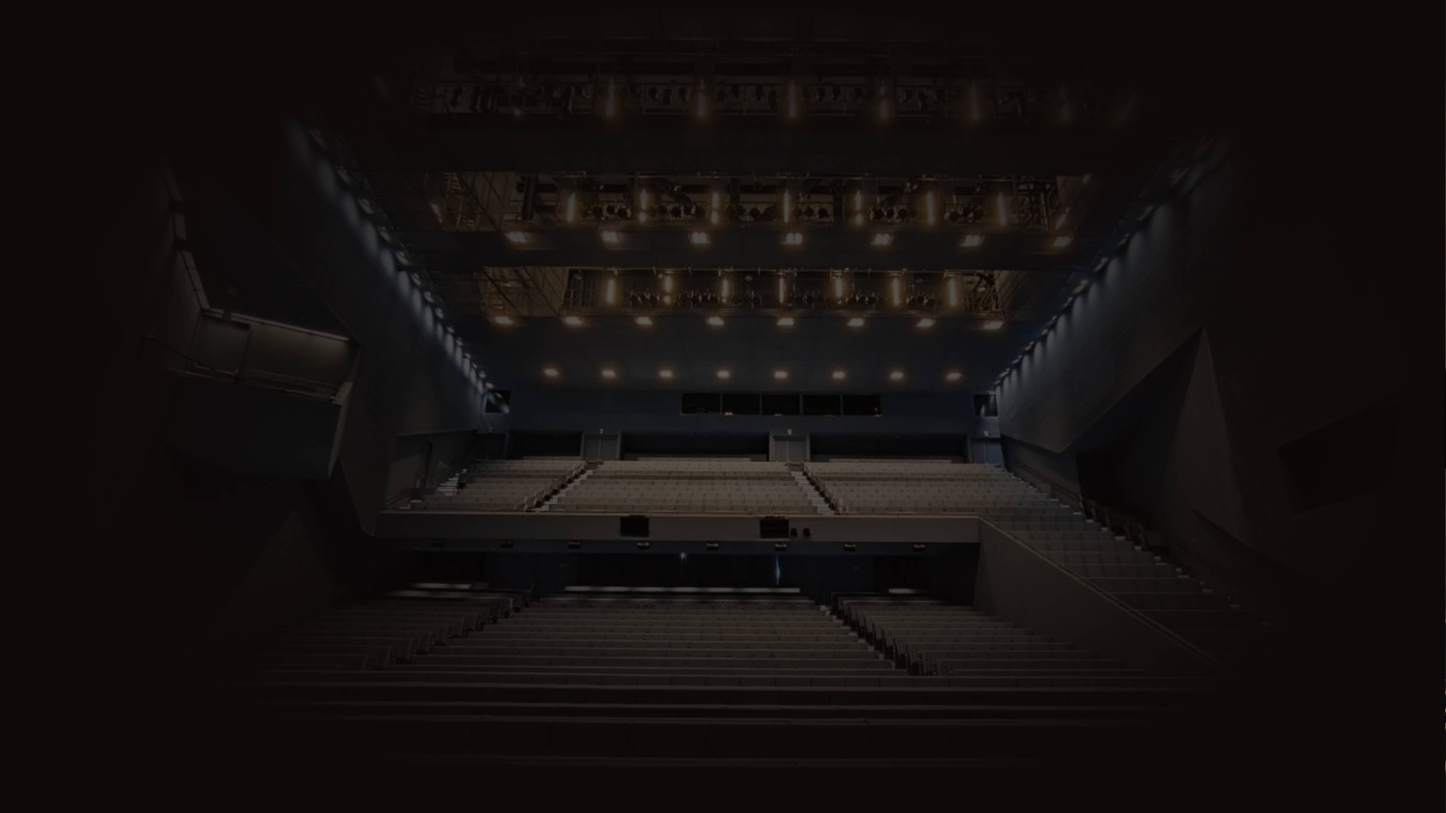
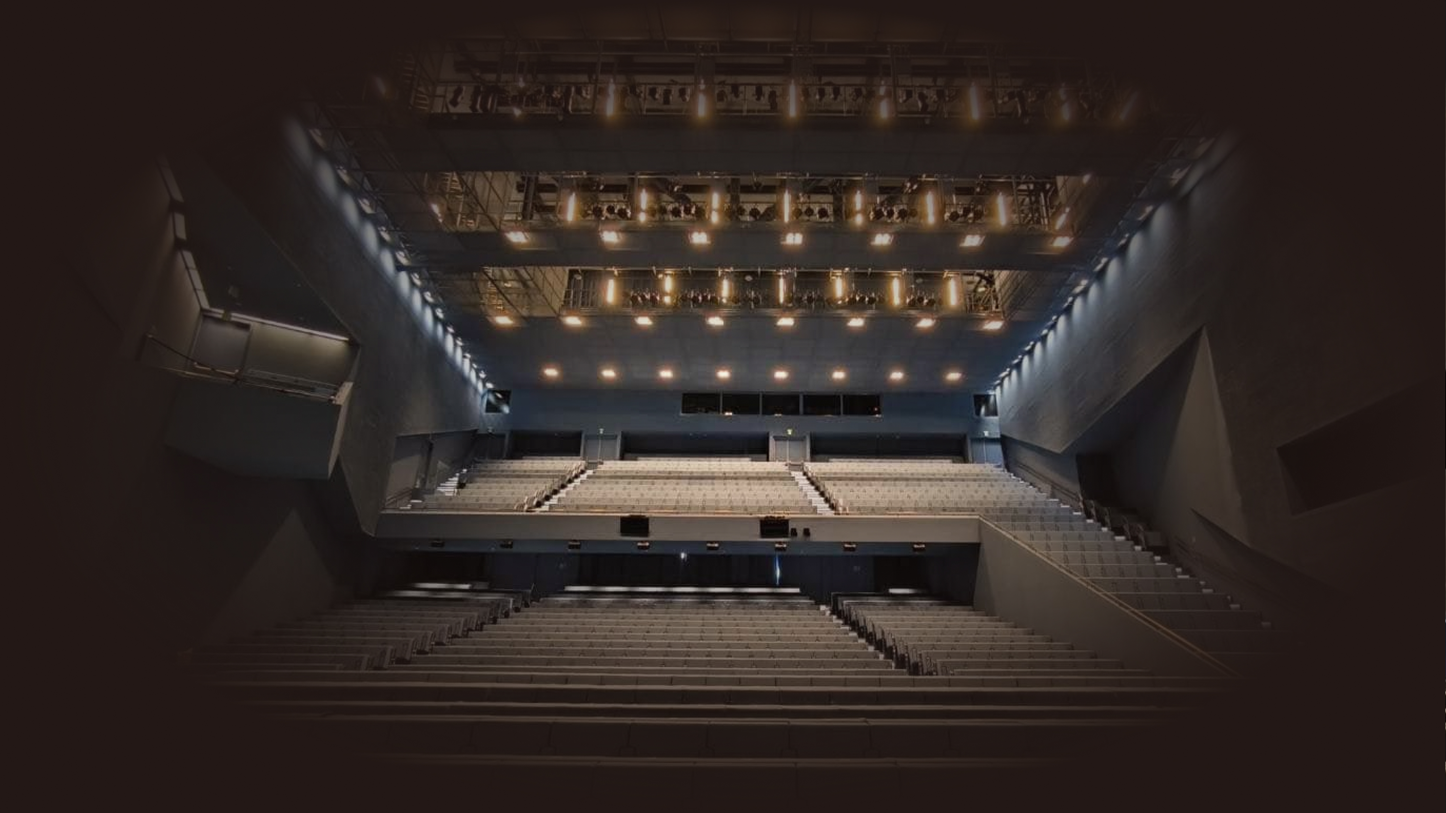
kv輪播新增

diff --git a/index.html b/index.html
@@ -41,13 +41,34 @@
 			<div class="home_kv_logo">
 				<img src="img/logo_main.svg" alt="">
 			</div>
-			<!-- 電腦版圖片 -->
-			<div class="photo pc imgLiquidFill">
-				<img src="img/home_kv-bg.jpg" alt="">
-			</div>
-			<!-- 手機版圖片 -->
-			<div class="photo mob ">
-				<img src="img/home_kv-bg.jpg" alt="">
+			<div class="photo">
+				<div class="swiper swiper-container-kv">
+					<div class="swiper-wrapper">
+						<!-- Slides -->
+						<div class="swiper-slide">
+							<!-- 電腦版圖片 -->
+							<img class="pc" src="img/home_kv-bg.jpg" alt="">
+
+							<!-- 手機版圖片 -->
+							<img class="mob" src="img/home_kv-bg_mob.jpg" alt="">
+						</div>
+						<div class="swiper-slide">
+							<!-- 電腦版圖片 -->
+							<img class="pc" src="img/home_kv-bg.jpg" alt="">
+							
+							<!-- 手機版圖片 -->
+							<img class="mob" src="img/home_kv-bg_mob.jpg" alt="">
+						</div>
+						<div class="swiper-slide">
+							<!-- 電腦版圖片 -->
+							<img class="pc" src="img/home_kv-bg.jpg" alt="">
+							
+							<!-- 手機版圖片 -->
+							<img class="mob" src="img/home_kv-bg_mob.jpg" alt="">
+						</div>
+					</div>
+				</div>
+							
 			</div>
 		</div>
 		<div class="home_news">
@@ -261,10 +282,26 @@
 			$(".nav_box").toggle();
 		});
 		
+		var mySwiper = new Swiper ('.swiper-container-kv', {
+			slidesPerView: 1,
+      		spaceBetween: 0,
+			autoHeight: true,
+			autoplay: {
+				delay: 5000,  // 設定間隔時間 (毫秒)
+				disableOnInteraction: false, // 使用者操作後仍繼續自動播放
+			},
+			loop: true, // 讓輪播可以無限循環
+		})
+
 		var mySwiper = new Swiper ('.swiper-container', {
 			slidesPerView: 1,
       		spaceBetween: 10,
 			autoHeight: true,
+			autoplay: {
+				delay: 5000,  // 設定間隔時間 (毫秒)
+				disableOnInteraction: false, // 使用者操作後仍繼續自動播放
+			},
+			loop: true, // 讓輪播可以無限循環
 			pagination: {
 				el: '.swiper-pagination',
         		clickable: true,

diff --git a/scss/index.scss b/scss/index.scss
@@ -6,9 +6,20 @@
 .home_kv{
     position: relative;
 
+    &:before{
+        content: "";
+        width: 100%;
+        height: 100%;
+        background: rgba(0,0,0,.6);
+        position: absolute;
+        top: 0;
+        left: 0;
+        z-index: 10;
+    }
+
     .photo{
         width: 100%;
-        height: 100vh;
+        // height: 100vh;
         overflow: hidden;
         @media (max-width: 1080px){
             height: auto;
@@ -27,6 +38,11 @@
         left: 0;
         margin: auto;
         animation: logo_ani 5s 1s both;
+        @media (max-width: 1080px){
+            width: 50%;
+            height: 0;
+            padding-bottom: 26%;
+        }
     }
 }
 .home_news{

diff --git a/css/index.css b/css/index.css
@@ -793,9 +793,19 @@ footer .copyright {
   position: relative;
 }
 
+.home_kv:before {
+  content: "";
+  width: 100%;
+  height: 100%;
+  background: rgba(0, 0, 0, 0.6);
+  position: absolute;
+  top: 0;
+  left: 0;
+  z-index: 10;
+}
+
 .home_kv .photo {
   width: 100%;
-  height: 100vh;
   overflow: hidden;
 }
 
@@ -818,6 +828,14 @@ footer .copyright {
   margin: auto;
   -webkit-animation: logo_ani 5s 1s both;
           animation: logo_ani 5s 1s both;
+}
+
+@media (max-width: 1080px) {
+  .home_kv .home_kv_logo {
+    width: 50%;
+    height: 0;
+    padding-bottom: 26%;
+  }
 }
 
 .home_news {
